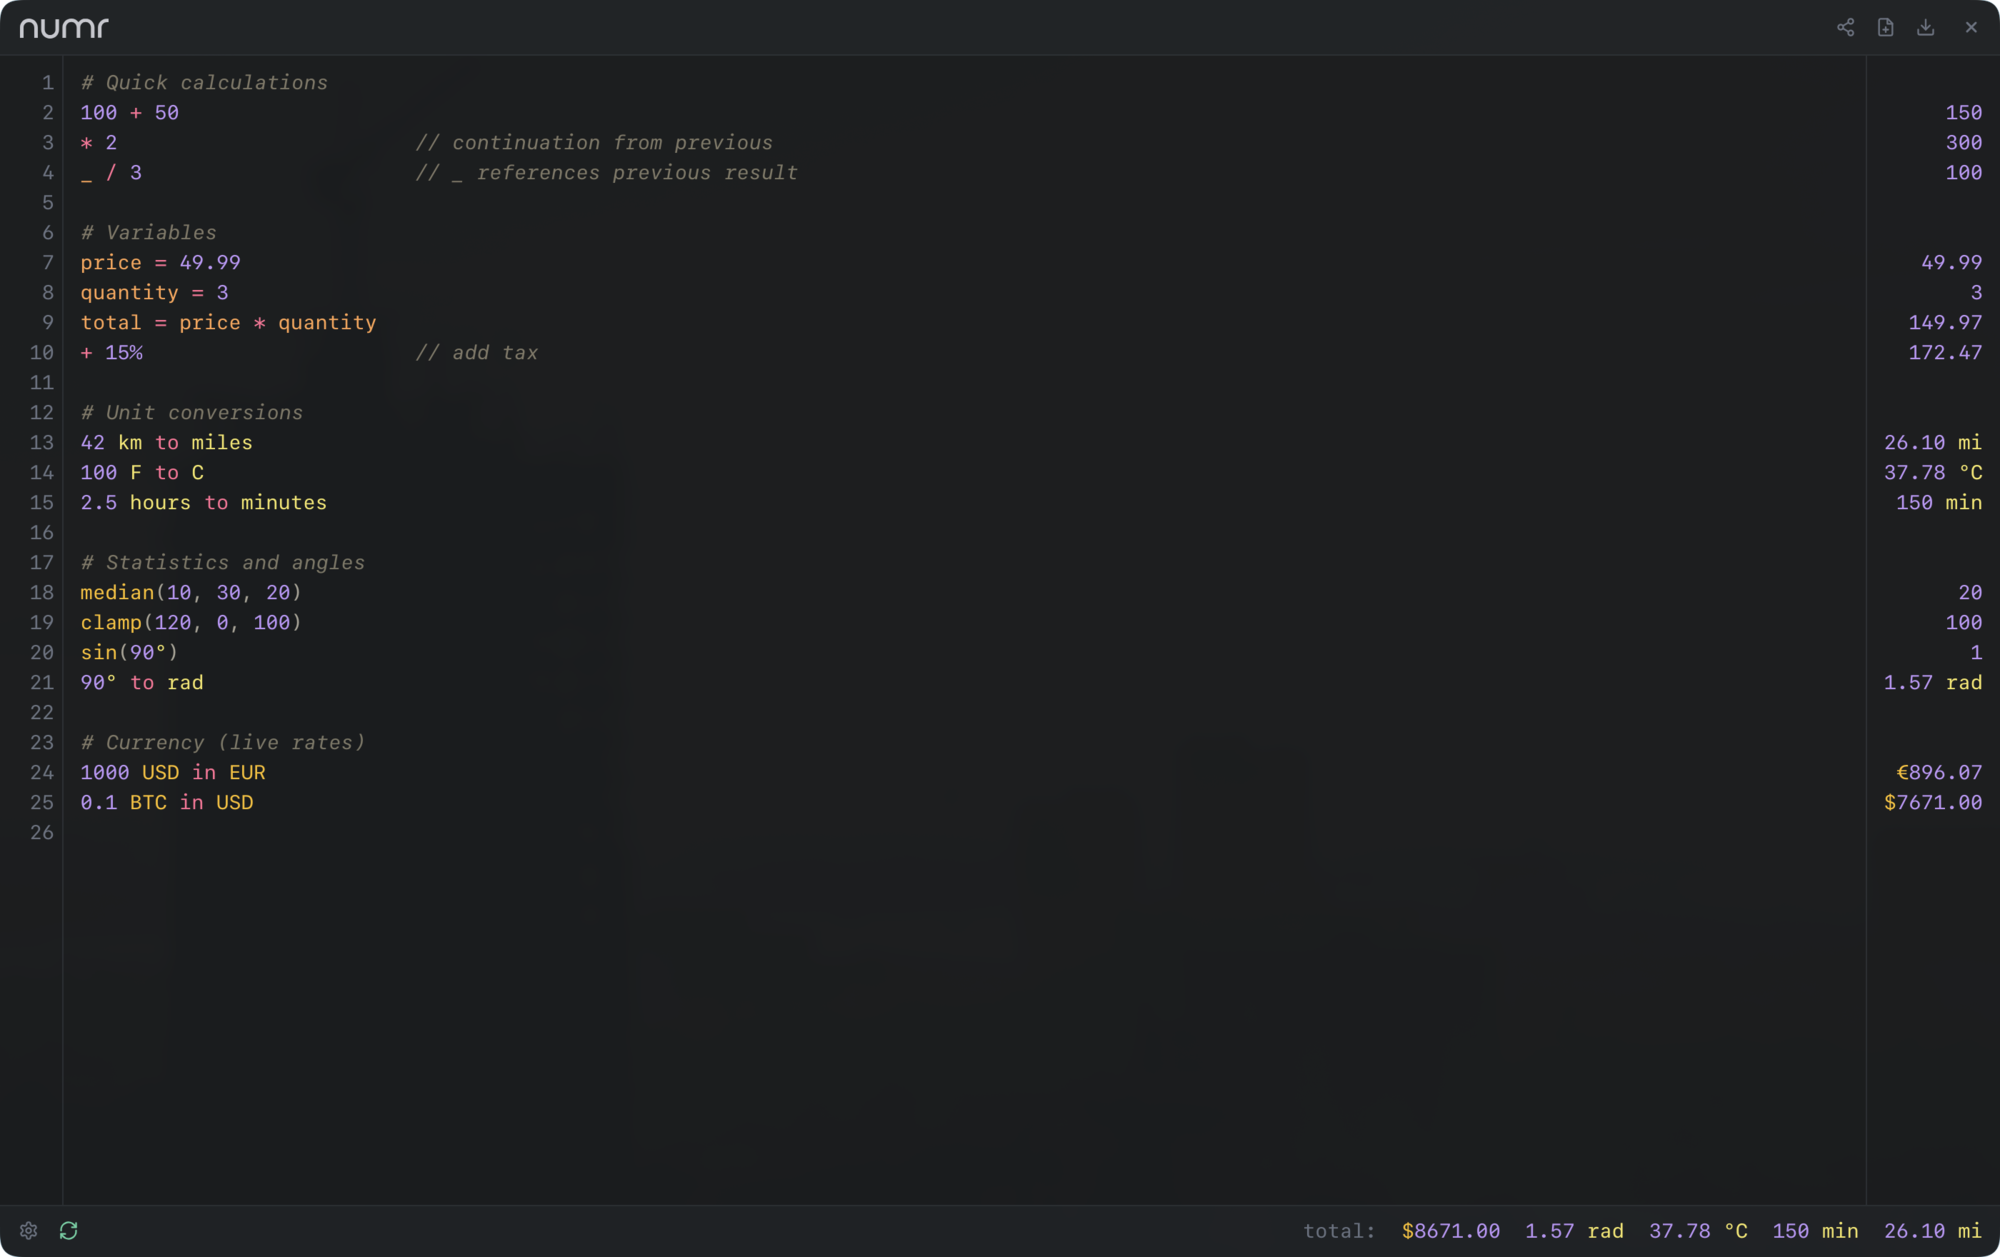
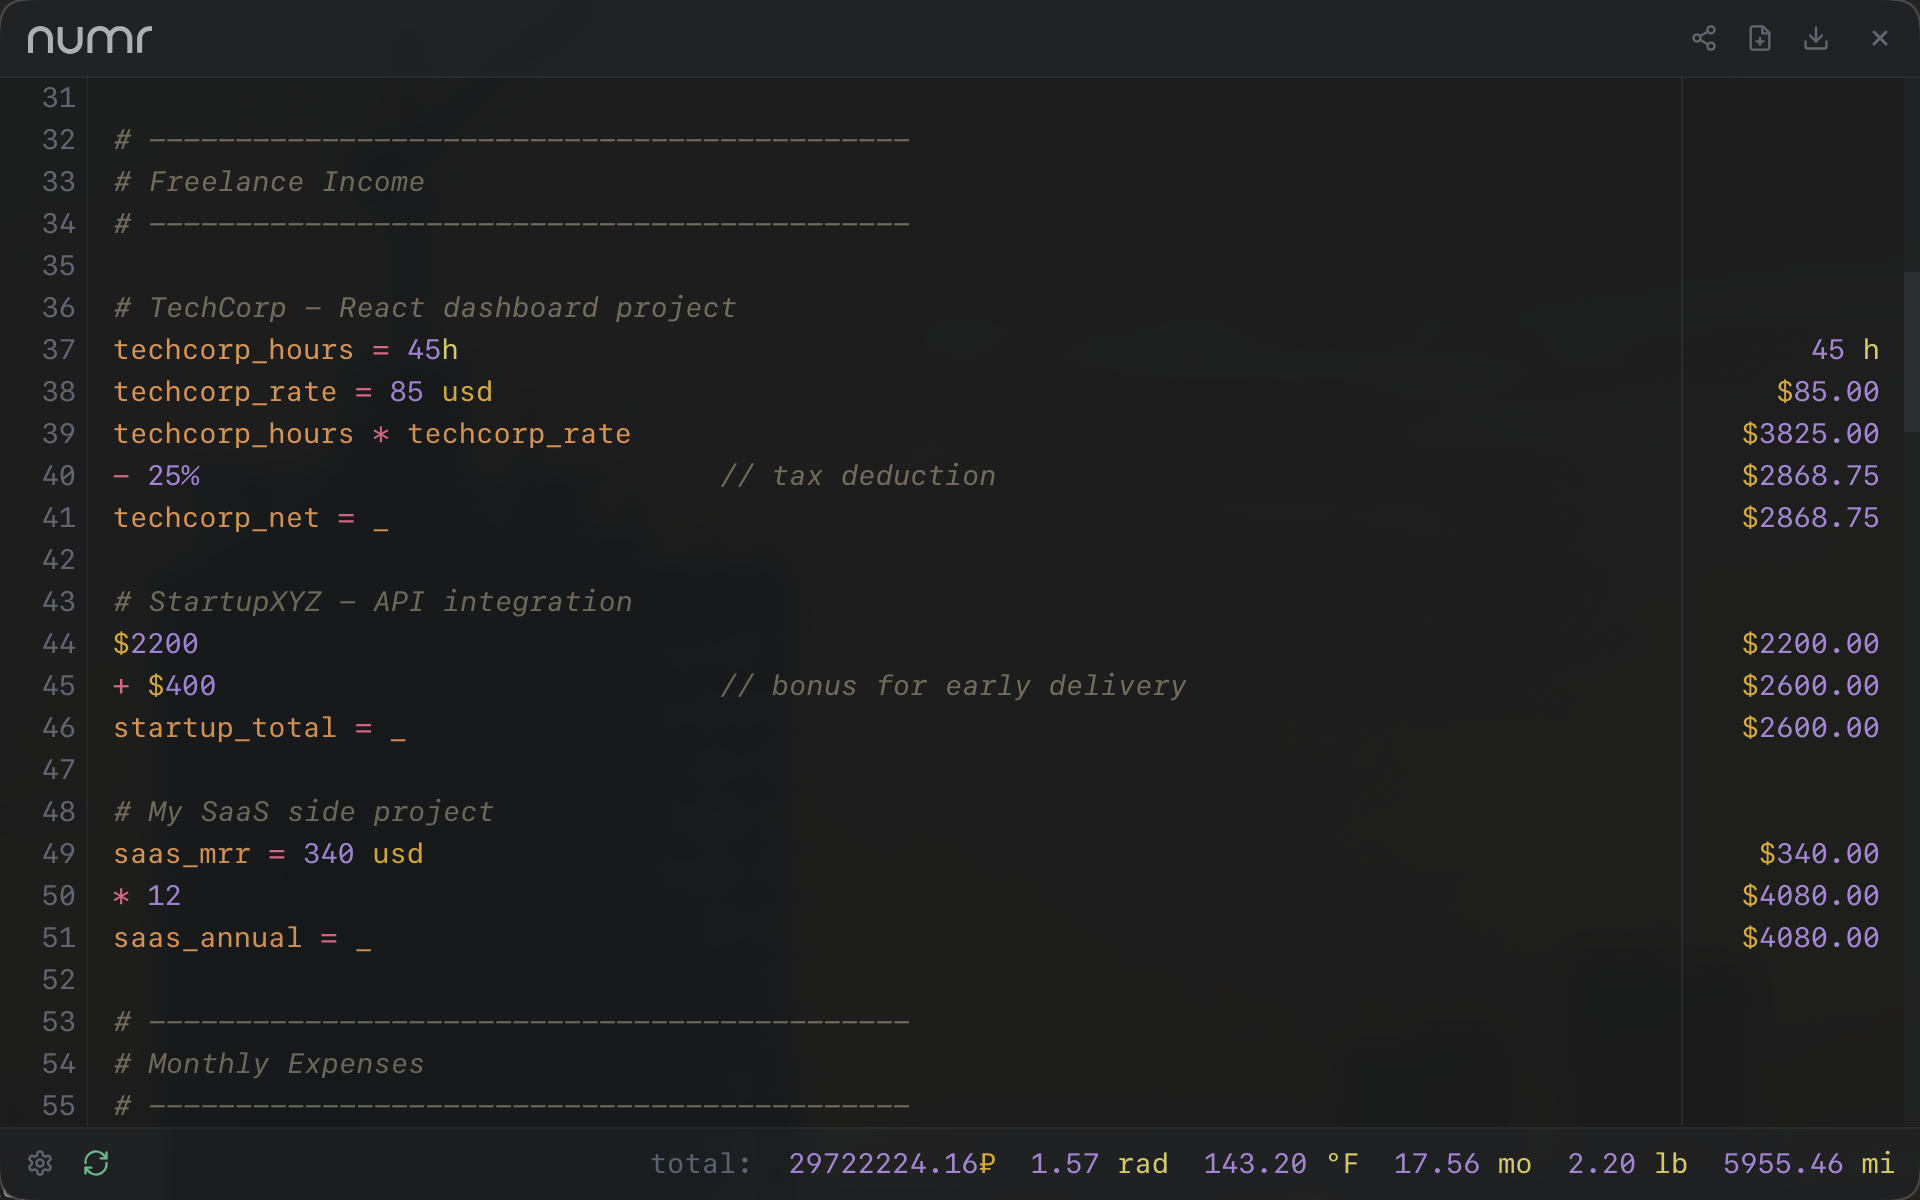
docs: opaque window screenshots and a demo GIF

diff --git a/README.md b/README.md
@@ -11,7 +11,7 @@
 Desktop app for [numr](https://github.com/nasedkinpv/numr), the natural-language text calculator. A thin [Tauri 2](https://tauri.app) shell around the [numr-web](https://github.com/nasedkinpv/numr-web) runtime: the same editor and WebAssembly engine as [numr.cc](https://numr.cc), in a native window with a tray icon, file dialogs, and `.numr` file association.
 
 <p align="center">
-  <img src="screenshots/numr-desktop-linux.png" width="800" alt="numr desktop on Linux evaluating variables, unit conversions, statistics, and live currency rates">
+  <img src="screenshots/numr-desktop-linux.png" width="800" alt="numr desktop on Linux evaluating a monthly finance document with currencies and continuations">
 </p>
 
 ## Features
@@ -24,7 +24,7 @@ Desktop app for [numr](https://github.com/nasedkinpv/numr), the natural-language
 - Keyboard: Ctrl/Cmd+N new, Ctrl/Cmd+O open, Ctrl/Cmd+S save, Ctrl/Cmd+R refresh rates, Ctrl/Cmd+W hide, Alt+Z wrap lines
 
 <p align="center">
-  <img src="screenshots/numr-desktop-settings.png" width="800" alt="numr desktop settings panel with line numbers, line wrapping, and decimal places">
+  <img src="screenshots/numr-desktop-demo.gif" width="800" alt="numr desktop demo: scrolling a finance document, opening settings, toggling line numbers, and changing precision">
 </p>
 
 ## Installation
